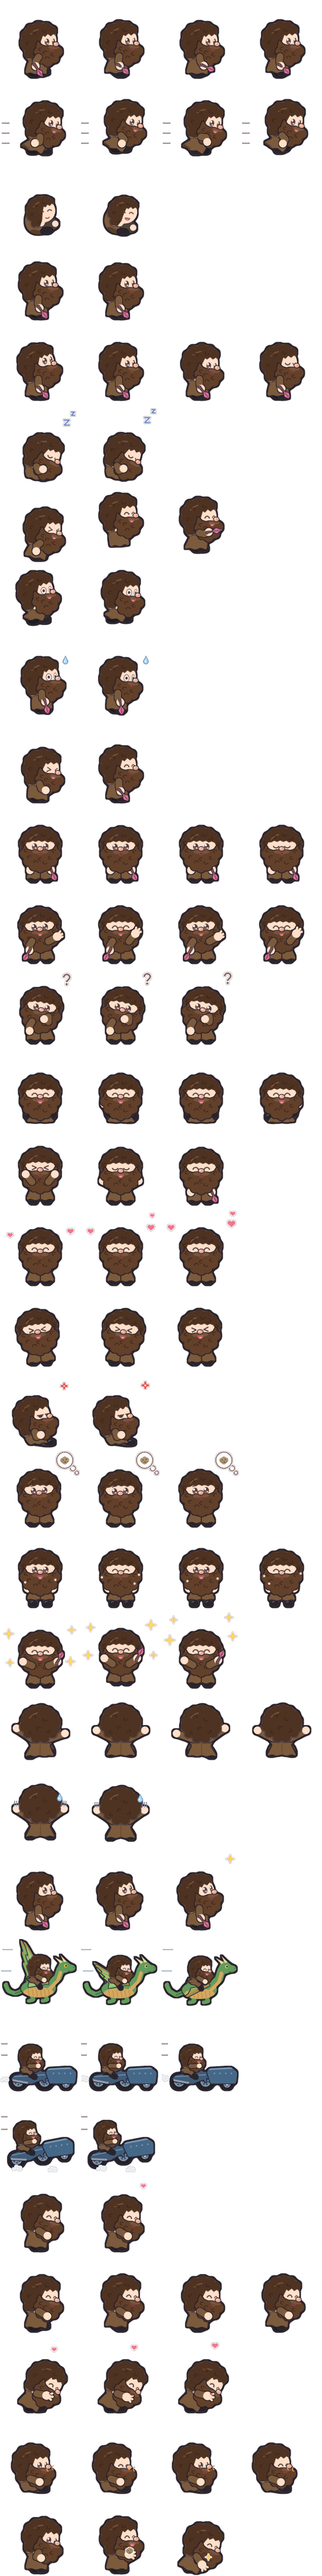
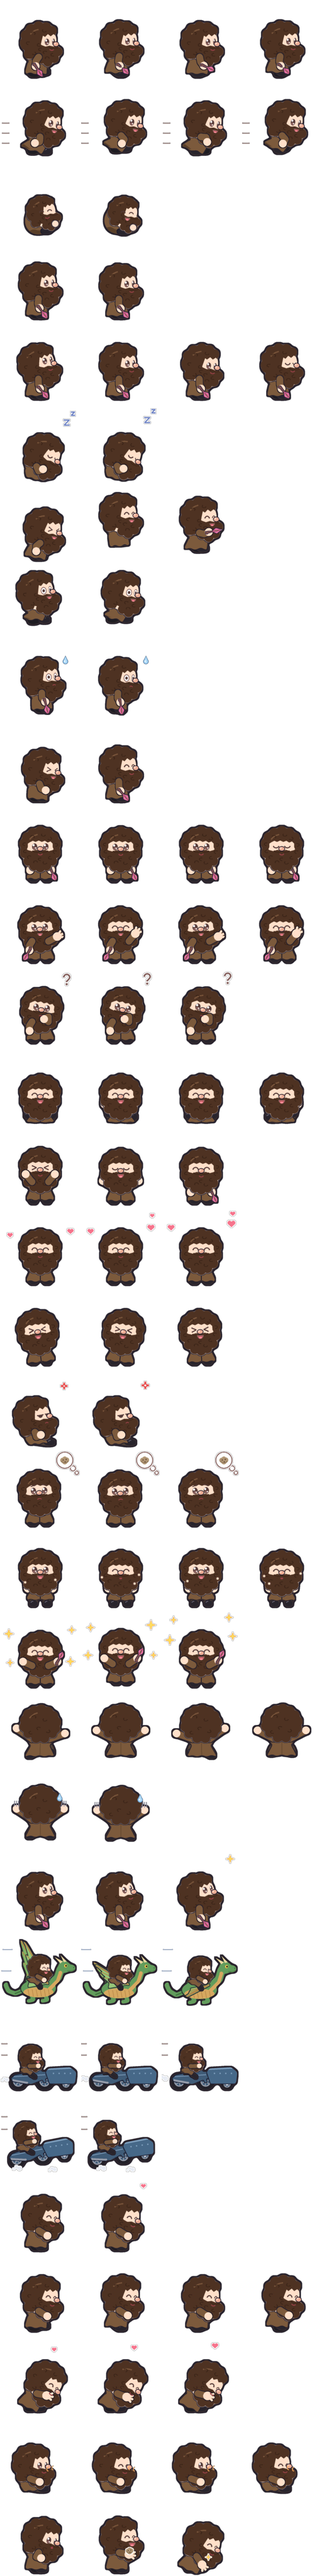
art(wizards): Voldemort never smiles and has two nostril dots; Hagrid's hair and beard are one mass
Claude-Session: https://claude.ai/code/session_01QTKFeh88WdMrEuDr7Y72ss

Changed region(s): [[0.375, 0.0625, 0.4375, 0.0938], [0.125, 0.0625, 0.1875, 0.0938]]

diff --git a/tools/draw_hagrid.py b/tools/draw_hagrid.py
@@ -1,6 +1,6 @@
 """해그리드 🧔 — 덩치 큰 (다른 펫의 약 1.4배 — stage_size) 사람 모양 꼬마: 덥수룩한 짙은 갈색 머리·수염 (얼굴 대부분을 덮고 다정한 눈만 빼꼼),
 긴 갈색 두더지 가죽 코트, 분홍 우산 (지팡이 대신). 몸·공통 동작은 draw_wizard (Look.dims로 넓은 어깨·굵은 팔다리·작은 머리,
-Look.beard 수염, Look.prop 우산)를 쓰고, 여기서는 생김새·해그리드만의 동작·등록만.
+Look.prop 우산)를 쓰고, 여기서는 생김새·해그리드만의 동작·등록만.
 
     python tools/draw_hagrid.py → ui/pets/hagrid/{sheet_<stage>.png ×5, pet.json} + tools/preview/{stages_hagrid,climb_hagrid,wizard_hagrid}.png
     (python tools/draw_pets.py도 함께 만든다 — draw_pets 맨 끝에서 이 모듈을 불러 SPECIES에 등록)
@@ -23,11 +23,9 @@ from draw_pets import C, E, L, T, Part, Species, heart_fx, sparkle_fx  # noqa: E
 from draw_spider import polar  # noqa: E402
 from sprite_spec import STAGES  # noqa: E402
 
-HAIR = (78, 50, 34)  # 짙은 갈색 머리·수염
+HAIR = (78, 50, 34)  # 짙은 갈색 머리·수염 (한 덩어리, 같은 색)
 HAIR_DARK = (56, 34, 22)  # 곱슬 결
 HAIR_HI = (120, 84, 58)  # 윤기
-BEARD = (98, 64, 42)  # 수염 (머리보다 아주 조금 밝게)
-STACHE = (122, 84, 58)  # 콧수염
 NOSE, NOSE_HI = (236, 172, 148), (255, 214, 196)  # 둥근 코
 COAT, COAT_FAR = (124, 90, 60), (98, 70, 46)  # 갈색 두더지 가죽 코트
 COAT_IN = (88, 62, 40)  # 코트 안감
@@ -63,7 +61,8 @@ def curls(hx, hy, hrx, hry, spots):
 
 
 def hagrid_hair(view_, hx, hy, hrx, hry, q):
-    """덥수룩한 짙은 갈색 머리: 정수리·옆·뒤로 크게 부푼 머리 뭉치, 이마를 낮게 덮는 들쭉날쭉 앞머리, 곱슬 결.
+    """덥수룩한 짙은 갈색 머리·수염 한 덩어리: 정수리에서 옆머리·구레나룻을 타고 턱 아래 가슴까지 끊김 없이 흘러내리는 한 실루엣
+    (같은 색·같은 곱슬 결, 머리와 수염 사이 선 없음) — 얼굴 (이마 아래 눈·코·볼)만 가운데 구멍으로 빼꼼. 뒷모습은 머리 덩어리만.
     → (머리 도형에 더할 도형, 삐죽 조각, 머리 안 무늬)."""
     sky = hy - hry * 1.8 - q - 10
     shine = [L(dp.arc(hx, hy, hrx * 0.8, hry * 0.8, 215, 255, 8), 2.0)]
@@ -72,50 +71,44 @@ def hagrid_hair(view_, hx, hy, hrx, hry, q):
         marks = [([T((hx - hrx * 2, sky), (hx + hrx * 2, sky), (hx + hrx * 2, hy + 2 * hry), (hx - hrx * 2, hy + 2 * hry))], HAIR), (shine, HAIR_HI),
                  (curls(hx, hy, hrx, hry, [(-0.4, -0.5, 200), (0.3, -0.3, 20), (-0.1, 0.3, 120), (0.5, 0.5, 300), (-0.6, 0.6, 60)]), HAIR_DARK)]
         return [E(hx - 1.02 * hrx, hy - hry - q, hx + 1.02 * hrx, hy + 0.9 * hry)] + tf, [], marks
+    P = lambda a, b: (hx + a * hrx, hy + b * hry)  # noqa: E731
     if view_ == "front":
         tf = tufts_at(hx, hy, hrx, hry, [(-200, 1.05), (-172, 1.1), (-145, 1.05), (-118, 1.0), (-90, 1.05), (-62, 1.0), (-35, 1.05), (-8, 1.1), (20, 1.05)])
-        z = [(1.3, 0.3), (1.02, 0.12), (0.86, -0.2), (0.66, -0.3), (0.48, -0.22), (0.3, -0.34), (0.1, -0.26), (-0.1, -0.36), (-0.3, -0.26),
-             (-0.48, -0.34), (-0.66, -0.24), (-0.86, -0.22), (-1.02, 0.12), (-1.3, 0.3)]
-        edge = [(hx + a * hrx, hy + b * hry) for a, b in z]
-        marks = [([T(*edge, (hx - hrx * 1.5, sky), (hx + hrx * 1.5, sky))], HAIR), (shine, HAIR_HI),
-                 (curls(hx, hy, hrx, hry, [(-0.5, -0.62, 200), (0.2, -0.75, 10), (0.6, -0.5, 300), (-1.05, -0.2, 90), (1.05, -0.1, 250)]), HAIR_DARK)]
-        return [E(hx - 1.0 * hrx, hy - hry - q, hx + 1.0 * hrx, hy - 0.1 * hry)] + tf, [], marks
-    # 옆모습 (오른쪽을 봄): 앞머리는 이마 위에서 들쭉날쭉, 뒤통수·목덜미를 덮고 어깨까지 부스스
-    tf = tufts_at(hx, hy, hrx, hry, [(-190, 1.08), (-160, 1.1), (-130, 1.08), (-100, 1.05), (-72, 1.0), (-46, 0.95), (160, 1.05), (132, 1.0)])
-    tf += [C(hx - 0.7 * hrx, hy + 0.95 * hry, 0.34 * hrx), C(hx - 0.25 * hrx, hy + 1.0 * hry, 0.28 * hrx)]
-    z = [(1.25, -0.42), (0.98, -0.36), (0.8, -0.5), (0.62, -0.34), (0.44, -0.48), (0.26, -0.28), (0.12, -0.36), (0.0, 0.05), (-0.08, 0.4),
-         (-0.15, 0.8), (-0.4, 1.3), (-1.4, 1.3)]
-    edge = [(hx + a * hrx, hy + b * hry) for a, b in z]
-    marks = [([T(*edge, (hx - hrx * 1.6, sky), (hx + hrx * 1.4, sky))], HAIR), (shine, HAIR_HI),
-             (curls(hx, hy, hrx, hry, [(-0.5, -0.5, 200), (0.2, -0.7, 20), (-0.8, 0.2, 100), (-0.4, 0.9, 300)]), HAIR_DARK)]
-    return [E(hx - 1.05 * hrx, hy - hry - q, hx + 0.9 * hrx, hy + 0.9 * hry)] + tf, [], marks
+        # 얼굴 구멍 테두리 (위 = 들쭉날쭉 앞머리, 양옆 = 볼을 감싸 내려오는 옆머리·구레나룻)
+        z = [(1.3, 0.5), (0.9, 0.36), (0.8, 0.1), (0.8, -0.14), (0.66, -0.3), (0.48, -0.22), (0.3, -0.34), (0.1, -0.26), (-0.1, -0.36), (-0.3, -0.26),
+             (-0.48, -0.34), (-0.66, -0.24), (-0.8, -0.14), (-0.8, 0.1), (-0.9, 0.36), (-1.3, 0.5)]
+        # 수염: 옆머리에서 이어져 볼 아래를 들쭉날쭉 덮고 가슴까지
+        top = [(-1.04, -0.08), (-0.84, 0.3), (-0.55, 0.38), (-0.28, 0.3), (0.0, 0.36), (0.28, 0.3), (0.55, 0.38), (0.84, 0.3), (1.04, -0.08)]
+        low = [(1.1, 0.5), (0.95, 1.1), (0.5, 1.5), (0.0, 1.62), (-0.5, 1.5), (-0.95, 1.1), (-1.1, 0.5)]
+        pf = [(-1.0, 0.55, 0.3), (1.0, 0.55, 0.3), (-0.78, 1.08, 0.3), (0.78, 1.08, 0.3), (-0.4, 1.42, 0.3), (0.4, 1.42, 0.3), (0.0, 1.55, 0.3)]
+        hair_shape = E(hx - 1.0 * hrx, hy - hry - q, hx + 1.0 * hrx, hy - 0.1 * hry)
+        cl = [(-0.5, -0.62, 200), (0.2, -0.75, 10), (0.6, -0.5, 300), (-1.0, -0.1, 90), (1.0, -0.05, 250), (-0.95, 0.4, 70), (0.95, 0.45, 110),
+              (-0.7, 0.8, 120), (0.65, 0.85, 60), (-0.3, 1.15, 160), (0.3, 1.2, 20), (0.0, 0.95, 90)]
+        stache = [L(dp.arc(*P(-0.24, 0.36), 0.24 * hrx, 0.12 * hry, 20, 180, 6), 1.1), L(dp.arc(*P(0.24, 0.36), 0.24 * hrx, 0.12 * hry, 0, 160, 6), 1.1)]
+    else:
+        # 옆모습 (오른쪽을 봄): 앞머리는 이마 위에서 들쭉날쭉, 뒤통수·목덜미를 덮고 귀 자리를 지나 그대로 수염으로
+        tf = tufts_at(hx, hy, hrx, hry, [(-190, 1.08), (-160, 1.1), (-130, 1.08), (-100, 1.05), (-72, 1.0), (-46, 0.95), (160, 1.05), (132, 1.0)])
+        tf += [C(hx - 0.7 * hrx, hy + 0.95 * hry, 0.34 * hrx), C(hx - 0.25 * hrx, hy + 1.0 * hry, 0.28 * hrx)]
+        z = [(1.25, -0.42), (0.98, -0.36), (0.8, -0.5), (0.62, -0.34), (0.44, -0.48), (0.26, -0.28), (0.12, -0.36), (0.04, 0.05), (-0.02, 0.4),
+             (-0.15, 0.8), (-0.4, 1.3), (-1.4, 1.3)]
+        top = [(-0.2, 0.0), (0.05, 0.3), (0.32, 0.4), (0.58, 0.32), (0.84, 0.38), (1.1, 0.28)]
+        low = [(1.26, 0.7), (1.08, 1.22), (0.62, 1.56), (0.1, 1.46), (-0.22, 1.0), (-0.28, 0.4)]
+        pf = [(1.12, 0.72, 0.3), (0.9, 1.2, 0.3), (0.5, 1.46, 0.3), (0.08, 1.3, 0.28), (-0.15, 0.8, 0.26)]
+        hair_shape = E(hx - 1.05 * hrx, hy - hry - q, hx + 0.9 * hrx, hy + 0.9 * hry)
+        cl = [(-0.5, -0.5, 200), (0.2, -0.7, 20), (-0.8, 0.2, 100), (-0.4, 0.9, 300), (-0.1, 0.3, 60), (0.3, 0.8, 120), (0.8, 0.95, 60),
+              (0.45, 1.2, 160), (0.0, 0.6, 90)]
+        stache = [L(dp.arc(*P(0.84, 0.4), 0.3 * hrx, 0.12 * hry, 10, 170, 6), 1.1)]
+    edge = [P(a, b) for a, b in z]
+    beard = bushy(top + low, pf, hx, hy, hrx, hry)
+    mass = [T(*edge, (hx - hrx * 1.6, sky), (hx + hrx * 1.6, sky))] + beard
+    marks = [(mass, HAIR), (shine, HAIR_HI), (curls(hx, hy, hrx, hry, cl) + stache, HAIR_DARK)]
+    return [hair_shape] + tf + beard, [], marks
 
 
 def bushy(pts, puffs_, hx, hy, hrx, hry):
     """수염 덩어리: 테두리 다각형 + 아래쪽 동그란 뭉치 (녹이면 몽글몽글 부스스) — 점은 (가로 몫, 세로 몫), 뭉치는 (가로, 세로, 반지름 몫)."""
     P = lambda a, b: (hx + a * hrx, hy + b * hry)  # noqa: E731
     return [T(*[P(a, b) for a, b in pts])] + [C(*P(a, b), r * hrx) for a, b, r in puffs_]
-
-
-def hagrid_beard(view_, hx, hy, hrx, hry):
-    """얼굴 아래 절반을 덮는 크고 덥수룩한 수염 (귀밑 구레나룻 → 볼 → 턱 아래 가슴까지) + 콧수염 두 덩이 + 곱슬 결. 뒷모습엔 없음."""
-    if view_ == "back":
-        return None
-    P = lambda a, b: (hx + a * hrx, hy + b * hry)  # noqa: E731
-    if view_ == "front":
-        top = [(-1.04, -0.08), (-0.84, 0.26), (-0.55, 0.36), (-0.28, 0.3), (0.0, 0.36), (0.28, 0.3), (0.55, 0.36), (0.84, 0.26), (1.04, -0.08)]
-        low = [(1.1, 0.5), (0.95, 1.1), (0.5, 1.5), (0.0, 1.62), (-0.5, 1.5), (-0.95, 1.1), (-1.1, 0.5)]
-        pf = [(-1.0, 0.55, 0.3), (1.0, 0.55, 0.3), (-0.78, 1.08, 0.3), (0.78, 1.08, 0.3), (-0.4, 1.42, 0.3), (0.4, 1.42, 0.3), (0.0, 1.55, 0.3)]
-        stache = [E(*P(-0.5, 0.3), *P(0.02, 0.56)), E(*P(-0.02, 0.3), *P(0.5, 0.56))]
-        lines = curls(hx, hy, hrx, hry, [(-0.7, 0.8, 120), (0.65, 0.85, 60), (-0.3, 1.15, 160), (0.3, 1.2, 20), (0.0, 0.95, 90), (-0.9, 0.35, 70), (0.9, 0.4, 110)])
-    else:
-        top = [(-0.2, 0.0), (0.05, 0.3), (0.32, 0.38), (0.58, 0.32), (0.84, 0.36), (1.1, 0.28)]
-        low = [(1.26, 0.7), (1.08, 1.22), (0.62, 1.56), (0.1, 1.46), (-0.22, 1.0), (-0.28, 0.4)]
-        pf = [(1.12, 0.72, 0.3), (0.9, 1.2, 0.3), (0.5, 1.46, 0.3), (0.08, 1.3, 0.28), (-0.15, 0.8, 0.26)]
-        stache = [E(*P(0.5, 0.3), *P(1.18, 0.56))]
-        lines = curls(hx, hy, hrx, hry, [(0.3, 0.8, 120), (0.8, 0.95, 60), (0.45, 1.2, 160), (0.0, 0.6, 90)])
-    shapes_ = bushy(top + low, pf, hx, hy, hrx, hry)
-    return Part(shapes_, BEARD, [(stache, STACHE), (lines, HAIR_DARK)], outline=True, grow=0)
 
 
 def hagrid_face(view_, hx, hy, hrx, hry, far_eye, near_eye):
@@ -167,7 +160,7 @@ def cake_fx(cx, cy, r):
 
 HAGRID_LOOK = wz.Look(hair=hagrid_hair, hair_col=HAIR, extra=hagrid_face, food_fx=cake_bubble_fx, side_ear=False, cap_lift=0.35, eye_k=0.78,
                       back_reach=6.0, robe=COAT, robe_far=COAT_FAR, robe_in=COAT_IN, jumper=SHIRT, pants=PANTS, pants_far=PANTS_FAR, scarf=False,
-                      blush=None, beard=hagrid_beard, prop=umbrella,
+                      blush=None, prop=umbrella,
                       dims=dict(hrx=0.94, hry=0.94, tw=1.32, th=1.12, aw=1.25, lw=1.18, hip=1.2, arm=1.06, robe=1.15))
 
 

diff --git a/tools/draw_wizard.py b/tools/draw_wizard.py
@@ -86,6 +86,8 @@ class Look:
     dims: dict = field(default_factory=dict)  # WIZ 치수에 곱하는 배 (해그리드: 넓은 어깨·굵은 팔다리·작은 머리) — 없으면 그대로
     beard: Callable = None  # beard(view_, hx, hy, hrx, hry) → 머리 위에 얹는 수염 Part 또는 None (해그리드)
     prop: Callable = None  # prop(hand, a, length) → (Part, 끝 자리) — 지팡이 대신 든 것 (해그리드 분홍 우산)
+    eye_swap: dict = field(default_factory=dict)  # 눈 종류 바꿔치기 (볼드모트: 웃는 ^^ 눈 → 붉은 눈) — 비면 그대로
+    mouth_swap: dict = field(default_factory=dict)  # 입 종류 바꿔치기 (볼드모트: 웃는 입 → 일자·비웃음) — 비면 그대로
 
 
 _LOOK = {}  # 지금 그리는 종의 Look (poses_for가 칸마다 바꿈)
@@ -187,9 +189,13 @@ def eye_ops(kind, cx, cy, flip, brow=None, sx=1.0):
 
 
 def mouth_ops(kind, cx, cy):
-    """입: None 없음 · smile 빙긋 · open · big · grin · frown · pout · chew · o (동그랗게 오)."""
+    """입: None 없음 · smile 빙긋 · open · big · grin · frown · pout · chew · o (동그랗게 오) · flat 일자 · sneer 한쪽만 처진 비웃음."""
     if kind is None:
         return []
+    if kind == "flat":
+        return [([L([(cx - 3.0, cy - 0.6), (cx + 3.0, cy - 0.6)], 1.3)], MOUTH)]
+    if kind == "sneer":
+        return [([L([(cx - 3.4, cy + 0.4), (cx + 0.6, cy - 0.4), (cx + 3.4, cy - 1.4)], 1.3)], MOUTH)]
     if kind == "smile":
         return [([L(dp.arc(cx, cy - 1.6, 3.2, 2.4, 25, 155, 10), 1.4)], MOUTH)]
     if kind == "open":
@@ -228,6 +234,7 @@ def face_ops(view_, hx, hy, eyes, brow, mouth, look_, blush_on):
     hrx, hry = s["hrx"], s["hry"]
     lx, _ = look_
     ops = []
+    eyes, mouth = lk.eye_swap.get(eyes, eyes), lk.mouth_swap.get(mouth, mouth)
     (ex0, ey0), (ex1, ey1) = eye_spots(view_, hx, hy, look_)
     if view_ == "front":
         ops += eye_ops(eyes, ex0, ey0, False, brow)
@@ -802,9 +809,14 @@ def wz_roll(sp, i):
             dp.mark_head(hx, hy - hry + 2, hrx * 1.6)
             face = []
             for flip, lx in ((False, hx - 2), (True, hx + 11)):
+                if "happy" in lk.eye_swap:  # 볼드모트: 웃는 눈 대신 자기 눈 (붉은 눈)
+                    with xf(sx=0.7 / lk.eye_k, sy=0.7 / lk.eye_k, pivot=(lx, hy + 1)):
+                        face += eye_ops(lk.eye_swap["happy"], lx, hy + 1, flip)
+                    continue
                 with xf(sx=0.7, sy=0.7, pivot=(lx, hy + 1)):
                     face += dp.eye("happy", lx, hy + 1, flip)
-            face += mouth_ops("open" if i else "smile", hx + 6, hy + 12)
+            m = "open" if i else "smile"
+            face += mouth_ops(lk.mouth_swap.get(m, m), hx + 6, hy + 12)
         clip = dp.shapes([C(cx, cy, ROLL_RADIUS - 1.25 * dp.OUTLINE * _ST["line"] - 1.2)])
     return dp.compose([body, knee, shoe] + ([band] if lk.scarf else []) + [head, hand], face, clip=clip)
 

diff --git a/tools/draw_voldemort.py b/tools/draw_voldemort.py
@@ -1,4 +1,4 @@
-"""볼드모트 🐍 — 창백한 대머리, 코 없이 납작한 두 줄 콧구멍, 붉은 눈, 까만 로브 (초록 안감), 하얀 뼈 지팡이의 꼬마 마법사 펫(voldemort).
+"""볼드모트 🐍 — 창백한 대머리, 코 없이 납작한 얼굴에 콧구멍 점 둘, 웃지 않는 일자 입·비웃음, 붉은 눈, 까만 로브 (초록 안감), 하얀 뼈 지팡이의 꼬마 마법사 펫(voldemort).
 몸·동작은 draw_wizard (해리·헤르미온느와 같은 몸 — 목도리 없음)를 쓰고, 여기서는 생김새(Look)와 등록만.
 
     python tools/draw_voldemort.py → ui/pets/voldemort/{sheet_<stage>.png ×5, pet.json} + tools/preview/{stages_voldemort,climb_voldemort,wizard_voldemort}.png
@@ -42,14 +42,14 @@ def bald(view_, hx, hy, hrx, hry, q):
 
 
 def snake_face(view_, hx, hy, hrx, hry, far_eye, near_eye):
-    """코 없는 얼굴: 앞모습은 눈 사이 아래에 납작한 두 줄 콧구멍, 옆모습은 콧등 없이 한 줄."""
+    """코 없는 납작한 얼굴: 콧등 없이 작은 콧구멍 점 둘 (앞모습은 눈 사이 아래 좌우로, 옆모습은 얼굴 앞쪽에 하나)."""
     (x0, y0), (x1, y1) = far_eye, near_eye
     if view_ == "front":
         cx, cy = (x0 + x1) / 2, (y0 + y1) / 2 + 0.3 * hry
-        return [([L([(cx - 3.6, cy - 1.6), (cx - 1.6, cy + 1.4)], 1.3), L([(cx + 3.6, cy - 1.6), (cx + 1.6, cy + 1.4)], 1.3)], SLIT)]
+        return [([E(cx - 3.2, cy - 0.7, cx - 1.2, cy + 0.9), E(cx + 1.2, cy - 0.7, cx + 3.2, cy + 0.9)], SLIT)]
     if view_ == "side":
-        nx, ny = x0 + 0.06 * hrx, y1 + 0.3 * hry
-        return [([L([(nx - 2.2, ny - 1.4), (nx + 0.4, ny + 1.4)], 1.3)], SLIT)]
+        nx, ny = x0 + 0.04 * hrx, y1 + 0.3 * hry
+        return [([E(nx - 1.0, ny - 0.7, nx + 1.0, ny + 0.9)], SLIT)]
     return []
 
 
@@ -66,7 +66,9 @@ def fish_bubble_fx(cx, cy, r=12.0):
 
 VOLDEMORT_LOOK = wz.Look(hair=bald, hair_col=SKIN, skin=SKIN, skin_shade=SKIN_SHADE, extra=snake_face, food_fx=fish_bubble_fx, wand=WAND, wand_tip=WAND_TIP,
                          robe=ROBE, robe_far=ROBE_FAR, robe_in=ROBE_IN, jumper=JUMPER, pants=PANTS, pants_far=PANTS_FAR, scarf=False, blush=None, side_ear=False,
-                         eyes=(EYE_RED, EYE_RED_HI))
+                         eyes=(EYE_RED, EYE_RED_HI),
+                         eye_swap={"happy": "dot", "tight": "flat"},  # 웃는 ^^·질끈 눈 → 붉은 눈·가늘게 뜬 눈
+                         mouth_swap={"smile": "flat", "chew": "flat", "open": "sneer", "big": "sneer", "grin": "sneer"})  # 웃지 않음: 일자 입·비웃음
 VOLDEMORT_POSES = wz.poses_for(VOLDEMORT_LOOK)
 
 VOLDEMORT = Species(

diff --git a/tools/test_draw_hagrid.py b/tools/test_draw_hagrid.py
@@ -74,9 +74,8 @@ def test_manifest_is_a_big_dragon_riding_gamekeeper(out):
 @pytest.mark.parametrize("st", STAGES)
 def test_bushy_beard_and_hair_brown_coat_pink_umbrella_no_scarf(out, st):
     im = frame(out, st, "sit_front", 0)
-    assert near(im, dg.COAT, 24).sum() > 150, st  # 갈색 코트
-    assert near(im, dg.BEARD, 20).sum() > 250, st  # 덥수룩한 수염
-    assert near(im, dg.HAIR, 20).sum() > 250, st  # 머리
+    assert near(im, dg.COAT, 24).sum() > 100, st  # 갈색 코트 (아기는 수염 덩어리 아래로 조금)
+    assert near(im, dg.HAIR, 20).sum() > 500, st  # 머리·수염 한 덩어리 (같은 색)
     assert near(im, dg.UMBRELLA, 50).sum() + near(frame(out, st, "walk", 0), dg.UMBRELLA, 50).sum() > 8, st  # 분홍 우산 (아기는 작음)
     assert near(im, wz.SCARF, 40).sum() == 0 and near(im, wz.SCARF_GOLD, 40).sum() == 0, st
     face = near(im, dg.HAGRID_LOOK.skin, 24)
@@ -117,7 +116,7 @@ def test_the_build_reproduces_the_committed_hagrid(out):
 
 
 def test_back_view_head_covers_the_arms(monkeypatch):
-    """뒷모습 (벽 타기·미끄러지기): 머리가 팔 위에 그려짐 — 팔이 머리를 덮으면 안 됨 (수염은 뒷모습에 없음)."""
+    """뒷모습 (벽 타기·미끄러지기): 머리가 팔 위에 그려짐 — 팔이 머리를 덮으면 안 됨 (뒷모습은 머리 덩어리만)."""
     seen = []
     real = wz.dp.compose
     monkeypatch.setattr(wz.dp, "compose", lambda parts, *a, **k: (seen.append(list(parts)), real(parts, *a, **k))[1])
@@ -128,6 +127,6 @@ def test_back_view_head_covers_the_arms(monkeypatch):
             parts = seen.pop()
             skin = dg.HAGRID_LOOK.skin
             assert parts[-1].base == skin, "머리가 맨 나중 (팔보다 위)"
-            assert all(p.base != skin and p.base != dg.BEARD for p in parts[:-1])
+            assert all(p.base != skin for p in parts[:-1])
     finally:
         wz._LOOK.pop("cur", None)

diff --git a/tools/test_draw_voldemort.py b/tools/test_draw_voldemort.py
@@ -113,3 +113,17 @@ def test_back_view_head_covers_the_arms(monkeypatch):
         parts = seen.pop()
         assert parts[-1].base == dv.SKIN, "머리가 맨 나중 (팔보다 위)"
         assert all(p.base != dv.SKIN for p in parts[:-1])
+
+
+
+def test_he_never_smiles(monkeypatch, tmp_path):
+    """웃지 않음: 모든 칸의 입은 일자·비웃음·찡그림 (smile·open·big·grin 없음), 웃는 ^^·질끈 눈도 없음."""
+    mouths, eyes = set(), set()
+    real_m, real_e = wz.mouth_ops, draw_pets.eye
+    monkeypatch.setattr(wz, "mouth_ops", lambda kind, *a: (mouths.add(kind), real_m(kind, *a))[1])
+    monkeypatch.setattr(draw_pets, "eye", lambda kind, *a, **k: (eyes.add(kind), real_e(kind, *a, **k))[1])
+    monkeypatch.setattr(draw_pets, "SPECIES", {"voldemort": dv.VOLDEMORT})
+    monkeypatch.setattr(draw_pets, "_RENDERED", {})  # 그려 둔 칸 캐시를 비워 새로 그리게
+    draw_pets.build(tmp_path)
+    assert mouths and not mouths & {"smile", "open", "big", "grin"}, mouths
+    assert eyes and "happy" not in eyes and "tight" not in eyes, eyes
